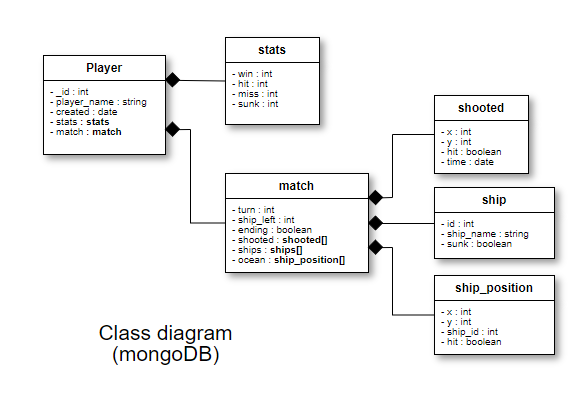
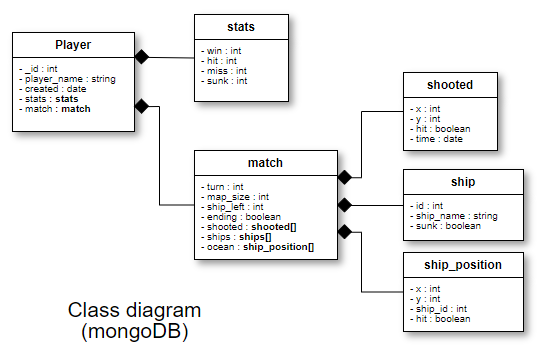
Add map_size in Match_data and check shooting by Match_data's size

diff --git a/model/game_system.js b/model/game_system.js
@@ -49,7 +49,7 @@ exports.startMatch = (player_name) => {
                     if (result.result.ok) {
                         db.createNewMatch(result.ops[0].player_name, generateMatch()).then((result) => {
                             if (result) {
-                                resolve(true);
+                                resolve({map_size:game_config.size});
                             }
                         }, err => reject(err))
                     }
@@ -85,10 +85,11 @@ exports.shoot = (player_name, x, y) => {
     return new Promise((resolve, reject) => {
         checkPlayerData(player_name).then((result) => {
             if (result) { // have player data
-                if (result.match && result.match.filter(match => !match.ending).length > 0) { // have playing match
-                    if (x >= game_config.size || y >= game_config.size ||
+                let playing_match = result.match.filter(match => !match.ending);
+                if (result.match && playing_match.length > 0) { // have playing match
+                    if (x >= playing_match[0].map_size || y >= playing_match[0].map_size ||
                         x < 0 || y < 0) {
-                        return resolve({ err: `Shoot position over map !. You must shoot between (0,0) till (${game_config.size - 1},${game_config.size - 1})` });
+                        return resolve({ err: `Shoot position over map !. You must shoot between (0,0) till (${playing_match[0].map_size - 1},${playing_match[0].map_size - 1})` });
                     } else {
                         db.checkShooted(player_name, x, y).then(shoot_duplicate => {
                             if (!shoot_duplicate) {
@@ -206,6 +207,7 @@ function sunkShip(player_name, ship_id) {
 function generateMatch() {
     let match_data = {
         turn: 1,
+        map_size : game_config.size,
         ship_left: 0,
         ending: false,
         shooted: [],

diff --git a/tests/controllers/game.js b/tests/controllers/game.js
@@ -29,6 +29,7 @@ describe("Starting API", () => {
                 .end((err, res) => {
                     assert.equal(res.status, 201);
                     assert.equal(res.body.status, true);
+                    assert.equal(res.body.map_size, config.game.size);
                     done();
                 })
         });

diff --git a/README.md b/README.md
@@ -518,6 +518,7 @@ Javascript
     {
         "status": true,
         "history": [{
+            "map_size":10,
             "turn": 7,
             "ship_left": 9,
             "ending": true,
